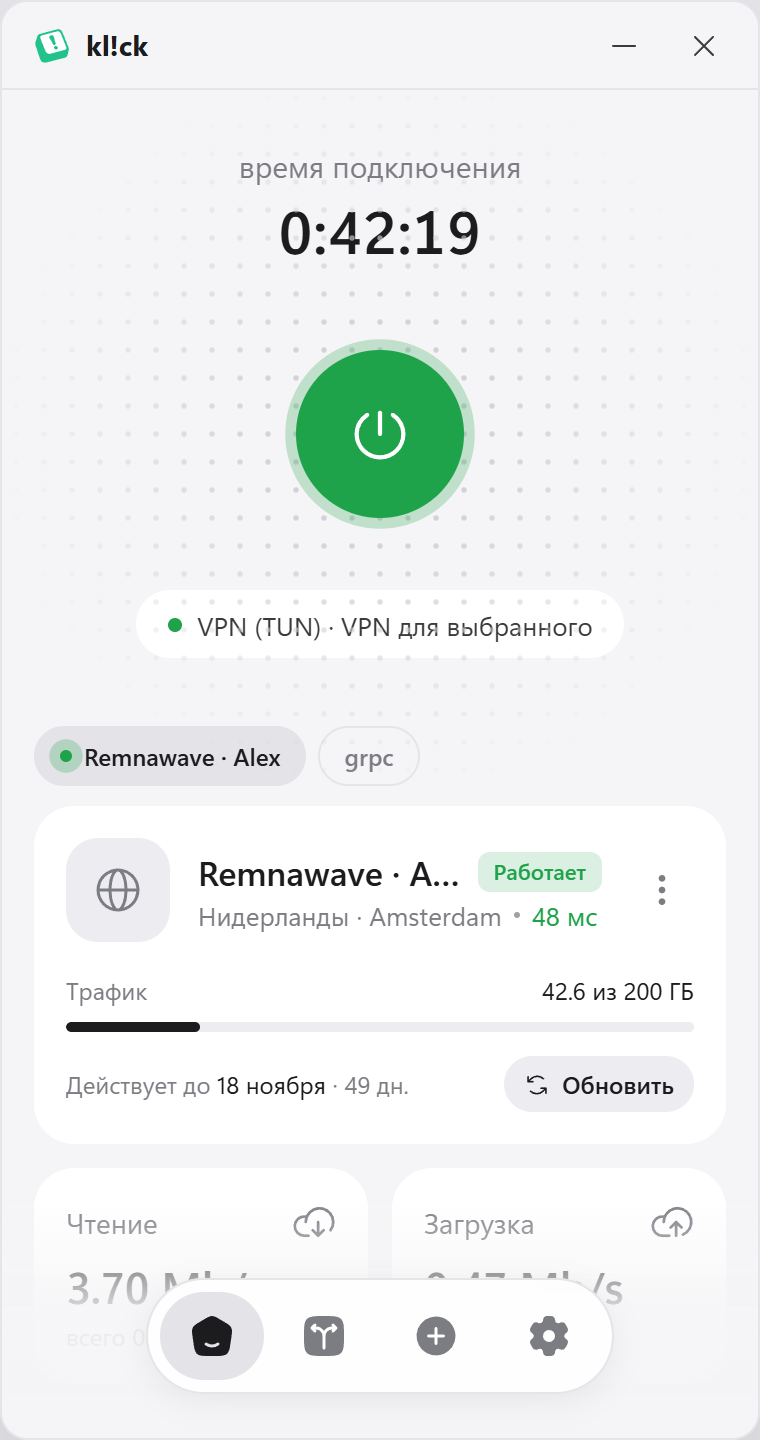
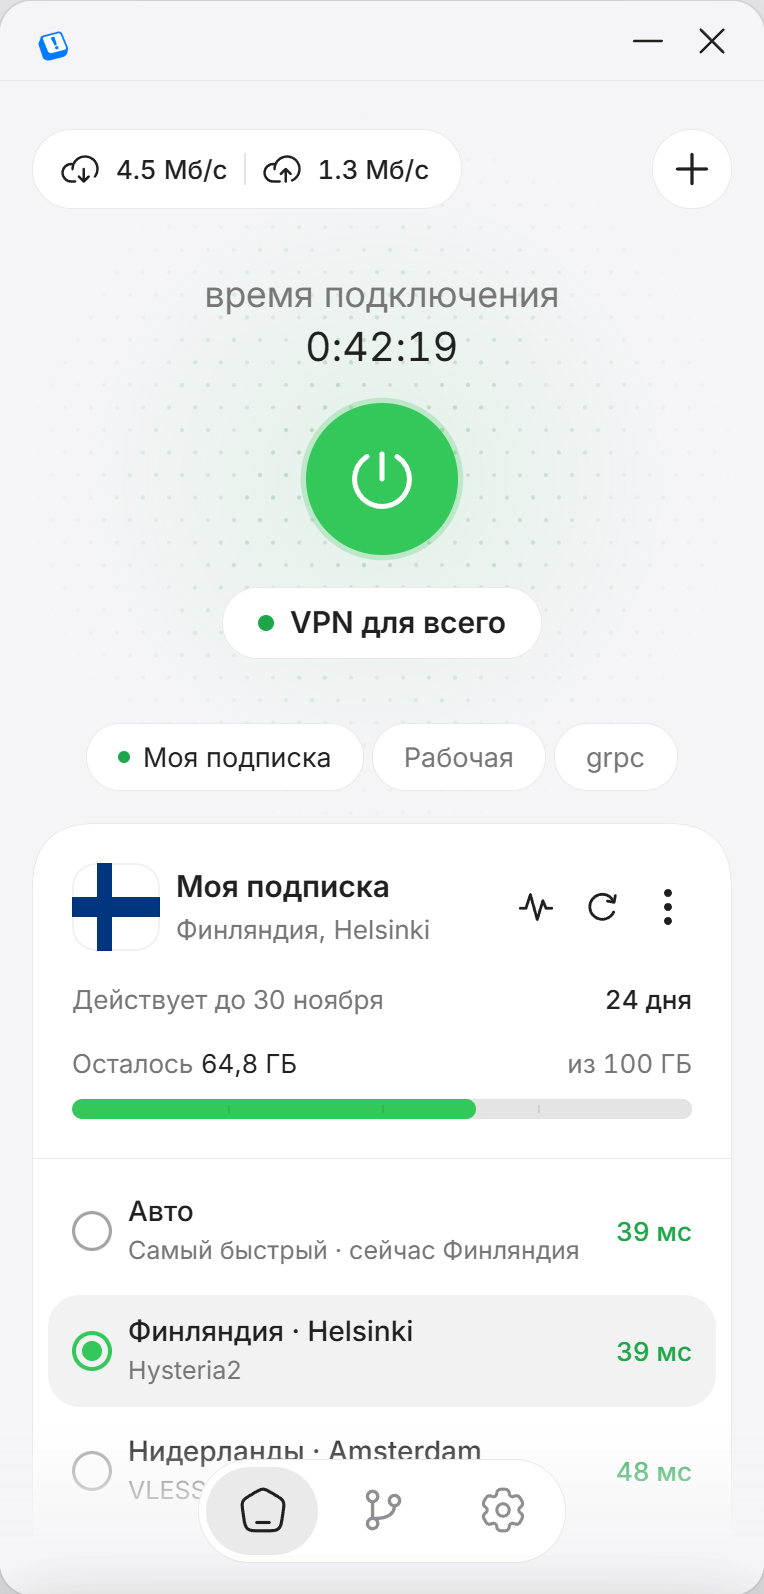
README, скриншоты и ролик — под новое окно
README описывает Главную, Маршруты, Скорость и Диагностику вместо прежней
вкладки «Соединение»; в авторах — limeflash (порты на macOS и iOS).
Скриншоты пересняты, сценарий ролика (npm run video / video:gif) проходит
по новым экранам, demo.gif записан заново.

Окно: overflow: clip вместо hidden — прокрутка к элементу больше не сдвигает
само окно и не показывает спрятанные листы снизу.

diff --git a/ui/src/styles/bm.css b/ui/src/styles/bm.css
@@ -74,7 +74,7 @@
 @media (prefers-reduced-motion:reduce){.bm *{animation-duration:.01ms!important;animation-iteration-count:1!important;transition-duration:.01ms!important}}
 
 /* Окно приложения: в Tauri — во всё окно, в превью — 382×797 со скруглением, как в макете. */
-.bm.bm-root{position:relative;width:382px;height:797px;overflow:hidden;border-radius:16px;background:var(--bg);color:var(--text);font-family:'SF Pro Display','SF Pro Text',-apple-system,BlinkMacSystemFont,'Inter Variable',Inter,'Segoe UI Variable Text','Segoe UI',system-ui,sans-serif;-webkit-font-smoothing:antialiased;transition:background-color .3s ease;user-select:none}
+.bm.bm-root{position:relative;width:382px;height:797px;overflow:hidden;border-radius:16px;background:var(--bg);color:var(--text);font-family:'SF Pro Display','SF Pro Text',-apple-system,BlinkMacSystemFont,'Inter Variable',Inter,'Segoe UI Variable Text','Segoe UI',system-ui,sans-serif;-webkit-font-smoothing:antialiased;transition:background-color .3s ease;user-select:none;overflow:clip}
 body.in-tauri .bm.bm-root{width:100vw;height:100vh;border-radius:0}
 .bm input,.bm textarea{user-select:text}
 .bm input::placeholder,.bm textarea::placeholder{color:var(--text3)}

diff --git a/README.md b/README.md
@@ -11,7 +11,7 @@
 
 [Скачать](https://github.com/vbu00/klick/releases/latest) · [Что умеет](#что-умеет) · [Установка](#установка) · [Сборка](#сборка) · [Авторы](#авторы) · [Лицензия](#лицензия)
 
-<img src="docs/demo.gif" width="760" alt="Вставить ссылку на подписку, нажать кнопку, правый щелчок по значку в трее — быстрое меню" />
+<img src="docs/demo.gif" width="760" alt="Вставить ссылку на подписку, нажать кнопку, выбрать, что пускать через VPN" />
 
 </div>
 
@@ -34,7 +34,7 @@ VPN держит служба Windows, а не окно: окно работае
   <tr>
     <td align="center"><img src="docs/screenshots/home-dark.png" width="260" /><br/><sub>Главная</sub></td>
     <td align="center"><img src="docs/screenshots/home-light.png" width="260" /><br/><sub>Главная · светлая тема</sub></td>
-    <td align="center"><img src="docs/screenshots/connection-dark.png" width="260" /><br/><sub>Соединение: режим и маршрутизация</sub></td>
+    <td align="center"><img src="docs/screenshots/connection-dark.png" width="260" /><br/><sub>Маршруты: что пускать через VPN</sub></td>
   </tr>
   <tr>
     <td align="center"><img src="docs/screenshots/tray-dark.png" width="220" /><br/><sub>Окно трея — по правому щелчку</sub></td>
@@ -54,11 +54,15 @@ VPN держит служба Windows, а не окно: окно работае
   `ss://`, `hysteria2://` / `hy2://`, `tuic://`, `anytls://`, `wireguard://`,
   `socks5://`. Несколько строк сразу — одно подключение со списком серверов.
 - **Файлы** конфигов mihomo/Clash.
-- **Кнопка «Добавить в kl!ck»** на странице подписки (ссылка `klick://add`): kl!ck открывается на «Добавить» с уже вставленной подпиской, остаётся нажать одну кнопку. Молча kl!ck ничего не добавляет, на экране — только адрес сайта подписки.
+- **Кнопка «Добавить в kl!ck»** на странице подписки (ссылка `klick://add`): kl!ck открывается на «Добавить подключение» с уже вставленной подпиской, остаётся нажать одну кнопку. Молча kl!ck ничего не добавляет, на экране — только адрес сайта подписки.
+- Подписки — вкладками на главной; у каждой срок, остаток трафика и меню:
+  скопировать ссылку, страница подписки и поддержка (если их даёт панель),
+  переименовать, удалить.
 - Предупреждения о конце срока и трафика подписки.
 
 **Серверы**
-- Переключение на лету, без переподключения.
+- Список серверов прямо в карточке подписки, «Авто» — самый быстрый.
+- Переключение на лету, без перезапуска ядра.
 - Задержка — настоящий запрос через сервер, а не пинг; меряется и при
   выключенном VPN.
 - Если сервер перестал отвечать: переподключиться и ждать, перейти на
@@ -73,24 +77,27 @@ VPN держит служба Windows, а не окно: окно работае
 - Если рядом работает то, что мешает VPN (zapret, GoodbyeDPI, другой
   VPN-клиент), kl!ck предупредит.
 
-**Куда направлять**
-- **VPN для всего** — через VPN идёт всё; российские сайты и адреса можно
-  пустить напрямую переключателями.
-- **VPN для выбранного** — через VPN только нужное: готовый набор
+**Маршруты** — что пускать через VPN
+- **Всё, кроме исключений** — через VPN идёт всё; российские сайты и сервисы
+  одним переключателем идут напрямую, плюс ваши исключения — сайты и
+  программы.
+- **Только выбранное** — через VPN только нужное: готовый набор
   «Заблокированное в РФ» (встроенный список плюс общий список сообщества
   [itdoginfo/allow-domains](https://github.com/itdoginfo/allow-domains),
-  обновляется раз в сутки) и ваш список. Остальное — напрямую.
-- В свой список добавляются сервисы из каталога, программы, сайты и IP.
-  Правило можно выключить, не удаляя.
+  обновляется раз в сутки), YouTube, Telegram, Discord, Instagram, ChatGPT
+  переключателями и ваши сайты и программы. Остальное — напрямую.
 - Локальная сеть — роутер, принтер, NAS — всегда напрямую.
+- **Сейчас:** какие программы ходят в сеть и куда — через VPN, напрямую или
+  частично.
+- **Диагностика:** проверка всех серверов подписки из вашей сети и сайты,
+  которые недавно не открылись, — их можно пустить через VPN или напрямую
+  одной кнопкой.
 
-**Соединение** — отдельная вкладка
-- **Сейчас в сети:** какие программы куда ходят — через VPN или напрямую, —
-  и тумблер у каждой, чтобы поменять.
-- **Не открывается?** — неудачные соединения и причина.
-- **Как вас видят сайты** — IP, страна и провайдер через VPN и напрямую,
+**Скорость** — по нажатию на скорость на главной
+- Загрузка и отдача, график за последнюю минуту, пик, среднее и трафик за
+  сеанс, задержка текущего сервера.
+- **Как вас видят сайты** — страна, IP и провайдер через VPN и напрямую,
   утечки DNS и IPv6.
-- Живая схема: что сейчас идёт через VPN, что напрямую.
 
 **Kill Switch**
 - Отмеченные программы не выйдут в интернет мимо VPN: пока VPN выключен или
@@ -113,8 +120,10 @@ VPN держит служба Windows, а не окно: окно работае
   OLED, светлая и шесть цветов акцента.
 - Запуск с Windows свёрнутым в трей; «Восстанавливать подключение» после
   перезагрузки.
+- «Дополнительно»: что делать, если сервер недоступен, уведомления об
+  обрывах, что делать с VPN при выходе, порт прокси.
 - Журнал службы и отчёт для поддержки — без адресов сайтов и серверов.
-- «О приложении»: версии, проверка обновлений на GitHub.
+- «О приложении»: версии, авторы, проверка обновлений на GitHub.
 
 ## Установка
 
@@ -122,7 +131,7 @@ VPN держит служба Windows, а не окно: окно работае
 2. Запустите — нужны Windows 10/11 x64 и один раз права администратора: они
    нужны, чтобы поставить службу. Если нет WebView2 Runtime, установщик
    поставит его сам.
-3. «Добавить» → вставьте ссылку на подписку → кнопка питания.
+3. «+» на главной → вставьте ссылку на подписку → кнопка питания.
 
 Прежнюю kl!ck установщик найдёт сам, перенесёт подписки и удалит её.
 
@@ -155,6 +164,7 @@ powershell -ExecutionPolicy Bypass -File build.ps1   # dist\klick-setup.exe
 
 - [**vbu00**](https://github.com/vbu00) — разработка
 - [**Dmitriy Medvedev**](https://github.com/aleuuu) — дизайн интерфейса и логотип
+- **limeflash** — порты на macOS и iOS
 
 Логотип-клавиша в пяти цветах и вордмарк — в [`docs/logo`](docs/logo).
 
